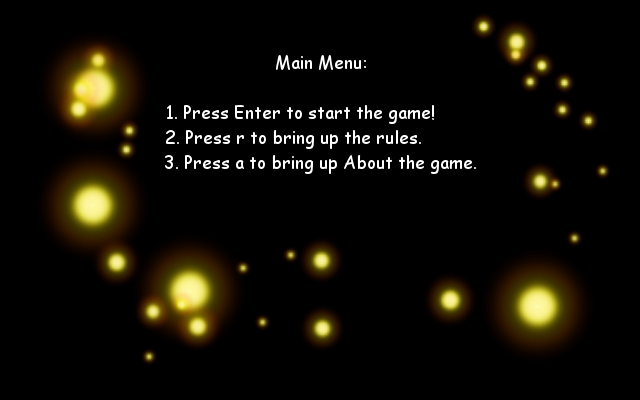
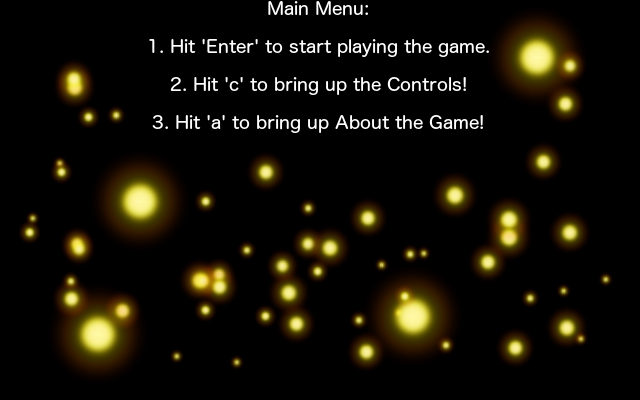
MENU CHANGES
Hey, I couldn’t figure out how to get it to work when you hit enter on
the menu screen to bring up the game. So if you start the game and it
doesn’t work right away that’s why. Sorry if I mess anything up.

diff --git a/web/main.dart b/web/main.dart
@@ -7,86 +7,56 @@ import "package:state_of_nature/game.dart";
 
 void main() {
 	Game game = new Game();
-
-	game.addScene("test", new GameScene());
+	game.addScene("test", new TestScene());
 	game.startScene("test");
-	//game.addScene("menu", new MenuScene());
 }
 
-/*class MenuScene extends Scene
-{
-  var img_logo = content.getImage("logo.png");
-  
-  
-}*/
 
 class TestScene extends Scene {
-	Vector camPos;
-	static const CAMSPEED = 500;
-	
-	List<int> tiles;
-	static const int MAP_WIDTH=60;
-	static const int MAP_HEIGHT=60;
-	static const int TILE_WIDTH=32;
-	static const int TILE_HEIGHT=16;
-	
-	static const TILE_GRASS = 0;
-	static const TILE_WALL = 1;
-	
-	int getTile(int x, int y) {
-		return tiles[x+MAP_WIDTH*y];
-	}
-	
-	void setTile(int x, int y, int t) {
-		tiles[x+MAP_WIDTH*y] = t;
-	}
-	
+  double counter = 0.0;
+  bool s1 = false;//These keep track of the keys pressed to bring up About and the Controls
+  bool s2 = false; 
 	@override
 	void init() {
-		print("[Scene Init]");
-		camPos = new Vector();
-		tiles = new List.filled(MAP_WIDTH*MAP_HEIGHT,0);
-		for (int x=0;x<MAP_WIDTH;x++) {
-			setTile(x,0,1);
-			setTile(x,MAP_HEIGHT-1,1);
-		}
-		for (int y=0;y<MAP_HEIGHT;y++) {
-			setTile(0,y,1);
-            setTile(MAP_WIDTH-1,y,1);
-        }
 		
-		setTile(0,29,1);
 	}
 	@override
     void preUpdate(Graphics g, num dt) {
-		if (controls.keys[38])
-			camPos.y+=CAMSPEED*dt;
-		else if (controls.keys[40])
-        	camPos.y-=CAMSPEED*dt;
-		
-		if (controls.keys[37])
-			camPos.x+=CAMSPEED*dt;
-		else if (controls.keys[39])
-        	camPos.x-=CAMSPEED*dt;
-		
-		g.setCamPos(Vector.ZERO);
-		g.clear("cyan");
-		
-		g.setCamPos(camPos);
-		
-		var img_grass = content.getImage("grass.png");
-		var img_wall = content.getImage("wall.png");
-		
-		for (int x=0;x<MAP_WIDTH;x++) {
-			for (int y=0;y<MAP_HEIGHT;y++) {
-				if (getTile(x, y)==TILE_WALL) {
-					g.ctx.drawImage(img_wall,x*TILE_WIDTH,y*TILE_HEIGHT-24);
-				} else {
-					g.ctx.drawImage(img_grass,x*TILE_WIDTH,y*TILE_HEIGHT);
-				}
-			}
-		}
-    }
+	  
+	  if(counter < 4.0)
+	  {
+	     g.clear("black");
+	     var img_logo = content.getImage("logo.png");
+	    g.ctx.drawImage(img_logo,0,0);
+	     counter = counter + dt;
+	     return;
+	  }
+	  var img_about = content.getImage("about.png");
+	  var img_menu = content.getImage("menu.png");
+	  var img_controls = content.getImage("controls.png");
+	  g.ctx.drawImage(img_menu,0,0);
+	  if(controls.keys[65]) //If statement to bring up the About the Game
+	  {
+	    s1 = true;
+	  }
+	  if(s1 == true)
+	  {
+	    g.ctx.drawImage(img_about,0,0);
+	    if(controls.keys[13])
+	       s1 = false;
+	  }
+	  if(controls.keys[67]) //If statement to bring up the controls.
+        {
+          s2 = true;
+        }
+     if(s2 == true)
+        {
+          g.ctx.drawImage(img_controls,0,0);
+          if(controls.keys[13])
+             s2 = false;
+        }
+}
+	
     @override
     void postUpdate(Graphics g, num dt) {
     	

diff --git a/lib/game.dart b/lib/game.dart
@@ -100,7 +100,8 @@ class GameScene extends Scene {
 	}
 	@override
     void preUpdate(Graphics g, num dt) {
-		if (controls.keys[38])
+		
+	  if (controls.keys[38])
 			camPos.y+=CAMSPEED*dt;
 		else if (controls.keys[40])
         	camPos.y-=CAMSPEED*dt;
